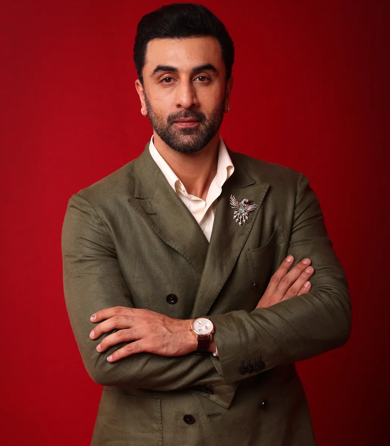
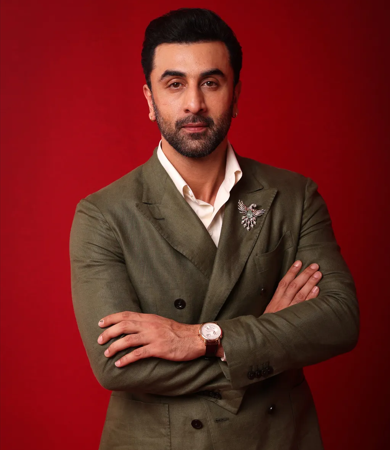
Added relatedProduct in Product

diff --git a/frontend/src/components/RelatedProduct.jsx b/frontend/src/components/RelatedProduct.jsx
@@ -1,0 +1,48 @@
+import React, { useContext, useEffect, useState } from 'react'
+import { ShopContext } from '../context/ShopContext'
+import Title from './Title';
+import ProductItem from './ProductItem';
+
+const RelatedProduct = ({category,subCategory}) => {
+    //Fetch the global list of products from the ShopContext
+    const {products} = useContext (ShopContext);
+    // Initialize a state variable to store the filtered list of related products
+    const [related ,setRelated] = useState([]);
+    
+    //useEffect hook runs whenever the 'products' array changes.
+    // It is responsible for filtering the products to find matches.
+    useEffect(()=>{
+        if(products.length>0)
+        {
+            let productsCopy =products.slice();
+            // Filter the products to only include those that match the current item's category
+            productsCopy =productsCopy.filter((item) => category===item.category);
+            productsCopy = productsCopy.filter((item) => subCategory===item.subCategory);
+            // Update the 'related' state with our final filtered list
+            setRelated(productsCopy);
+            
+        }
+    },[products])
+
+
+  return (
+    <div className='my-24'>
+        <div className='text-center text-3xl py-2'>
+            {/* Added title */}
+            <Title text1={'RELATED'} text2={'PRODUCTS'}/>
+        </div>
+        <div className='grid grid-cols-2 sm:grid-cols-3 md:grid-cols-4 lg:grid-cols-5 gap-4 gap-y-6'>
+            {
+                // Iterate over the 'related' array and render a ProductItem component for each one
+                related.map((item,index)=>(
+                    <ProductItem key={index} id={item._id} name={item.name} price={item.price} image={item.image}/>
+                ))
+            }
+
+        </div>
+
+    </div>
+  )
+}
+
+export default RelatedProduct

diff --git a/frontend/src/pages/Product.jsx b/frontend/src/pages/Product.jsx
@@ -2,6 +2,7 @@ import React, { useContext, useEffect, useState } from 'react'
 import { useParams } from 'react-router-dom'
 import { ShopContext } from '../context/ShopContext';
 import { assets } from '../assets/assets';
+import RelatedProduct from '../components/RelatedProduct';
 
 const Product = () => {
   const { productId } = useParams();
@@ -88,12 +89,14 @@ const Product = () => {
             {/* more information about product */}
             <hr className='mt-8 sm:w-4/5'/>
             <div className='text-sm text-gray-500 mt-5 flex flex-col gap-1'>
-              <p className='font-serif text-gray-600'>100% Original Product made by ShopBindash</p>
-              <p className='font-serif text-gray-600'>Cash on Delivery is available on this product</p>
-              <p className='font-serif text-gray-600'>Return and excahnge within 7 days provided by ShopBindas </p>
+              <p className='font-serif text-gray-600'>100% Original Product made by ShopBindash.</p>
+              <p className='font-serif text-gray-600'>Cash on Delivery is available on this product.</p>
+              <p className='font-serif text-gray-600'>Return and excahnge within 7 days provided by ShopBindas.</p>
             </div>
         </div>
       </div>
+      {/* related product */}
+       <RelatedProduct category={productData.category} subCategory={productData.subCategory}/>
     </div>
   ) : <div className='opacity-0'></div>
 }